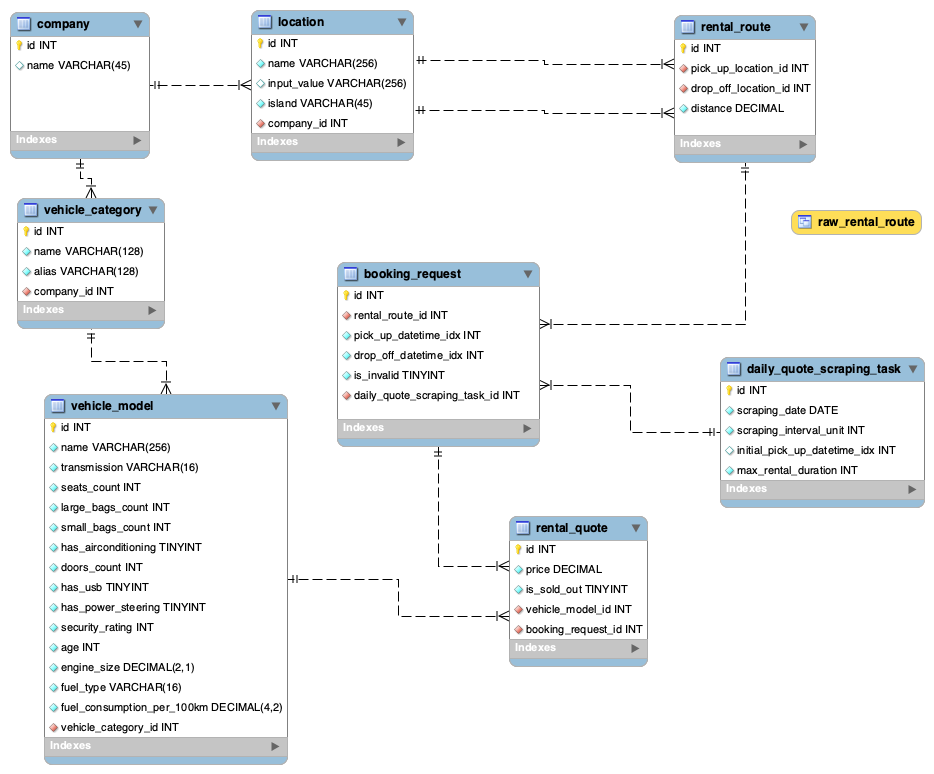
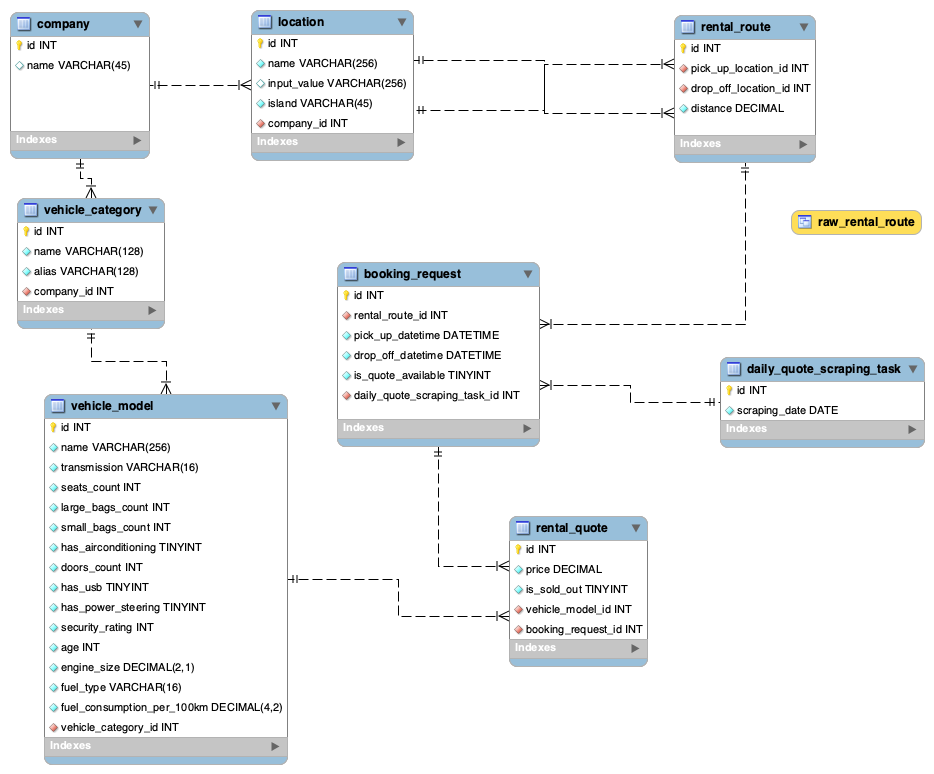
modify db design to adapt to the daily quote scraping

Changed region(s): [[0.7452, 0.5271, 0.9936, 0.6822], [0.4036, 0.4031, 0.5278, 0.4961]]

diff --git a/README.md b/README.md
@@ -3,8 +3,11 @@
 ## References
 
 -   https://selenium-python.readthedocs.io/
+-   https://dev.mysql.com/doc/connector-python/en/
 -   https://www.crummy.com/software/BeautifulSoup/bs4/doc/
 -   https://stackoverflow.com/questions/43164411/why-do-we-still-need-parser-like-beautifulsoup-if-we-can-use-selenium
+-   Check the timezone of db server: SELECT @@global.time_zone;
+-   Set timezone in MySql workbench: set time_zone = '+13:00';
 
 ## Prepare the development environment
 
